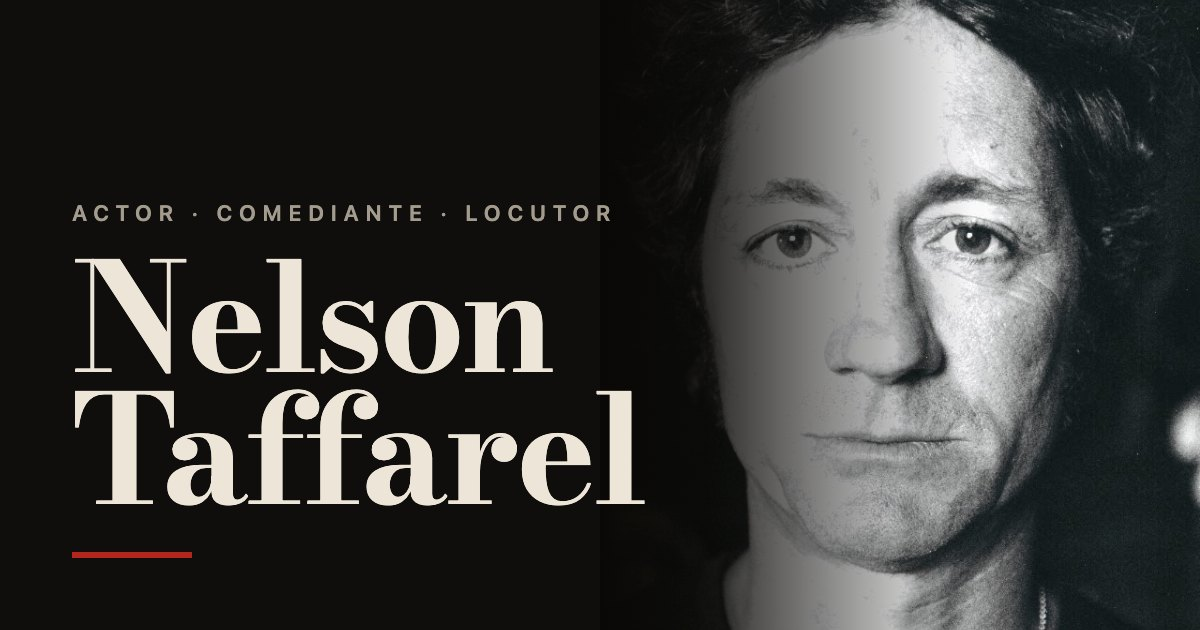
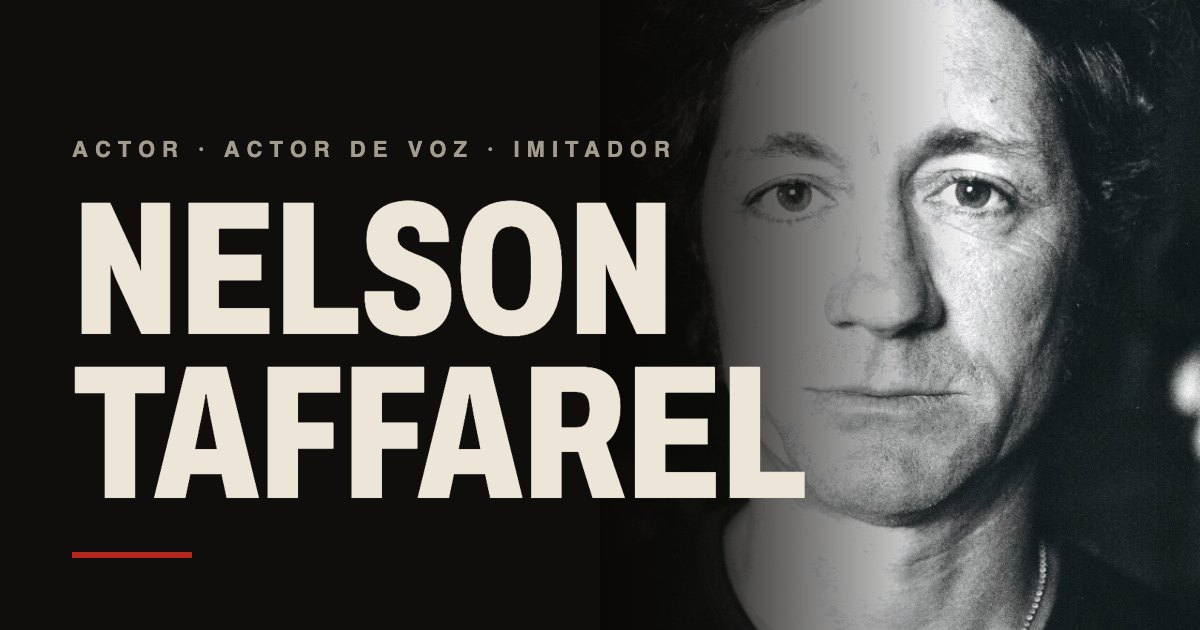
feat: nuevo contenido (Nelson / Nel Taffarel), sección Trayectoria y SEO con alias
Texto entregado y revisado por Nelson reemplaza la bio anterior. Bio con
apertura grande, Trayectoria en bloques con listas tipo créditos, Videos,
Galería y Contacto con sus textos. Title, JSON-LD y OG con ambos nombres.
OG y favicon regenerados con la tipografía nueva.

diff --git a/src/content/bio.ts b/src/content/bio.ts
@@ -1,24 +1,109 @@
-// Texto verbatim de la biografía. Los <span font-semibold> originales pasan a <strong>.
-export interface BioItem {
+// Texto entregado por Nelson (revisado por él). Los **negritas** originales pasan a <strong>.
+export const intro = [
+  '<strong>Nel Taffarel</strong>, nombre artístico de <strong>Nelson Taffarel</strong>, es actor, actor de voz e imitador argentino, oriundo de <strong>Gualeguaychú, Entre Ríos</strong>.',
+  'Su trayectoria abarca teatro, televisión, cine, cortometrajes, publicidad, locución e imitaciones, con experiencias en algunos de los principales escenarios y medios de la Argentina.',
+];
+
+export const about = {
+  title: 'Sobre mí',
+  paragraphs: [
+    'La actuación y la interpretación forman parte de mi vida desde hace muchos años.',
+    'Mi recorrido comenzó vinculado al teatro y a las imitaciones, y con el tiempo se extendió a la televisión, el cine, la publicidad y el trabajo como actor de voz.',
+    'A lo largo de mi trayectoria tuve la oportunidad de trabajar con reconocidos directores, participar en producciones televisivas y cinematográficas y formar parte de obras presentadas en escenarios como el <strong>Teatro San Martín</strong> y el <strong>Teatro Colón</strong>.',
+    'Cada experiencia fue aportando nuevas herramientas a mi trabajo como intérprete, tanto frente a cámara y sobre un escenario como detrás de un micrófono.',
+  ],
+};
+
+export type Part =
+  | { p: string }
+  | { list: string[] }
+  | { items: { title: string; html: string }[] };
+
+export interface Block {
+  id: string;
   title: string;
-  html: string;
+  subtitle?: string;
+  parts: Part[];
 }
 
-export const bio: BioItem[] = [
+export const career: Block[] = [
   {
-    title: 'Sobre mí',
-    html: 'Actor formado en el prestigioso taller de arte dramático de <strong>Agustín Alezzo</strong>, con una profunda pasión por la interpretación. Además, perfeccioné mis habilidades en danza y actuación con <strong>Ana Frenkel</strong>. Apasionado por el deporte, practico <strong>equitación</strong>, <strong>rugby</strong>, <strong>golf</strong> y <strong>Ashtanga Yoga</strong>, fusionando arte y disciplina en cada paso.',
-  },
-  {
-    title: 'Experiencia en TV',
-    html: 'He participado en reconocidas producciones televisivas como <em>Amor mío</em>, <em>Conflictos en red</em>, <em>Sin código</em>, <em>Hombres de honor</em>, <em>Los Roldán</em>, <em>Alma pirata</em>, <em>Casi ángeles</em> y <em>RRDT</em>. También incursioné en la comedia con programas icónicos como <em>Casados con hijos</em>, <em>TyC Sports</em> y <em>VideoMatch</em> (1995-1997).',
-  },
-  {
+    id: 'teatro',
     title: 'Teatro',
-    html: 'Sobre las tablas, he llevado a escena grandes clásicos en teatros como el <strong>San Martín</strong> y <strong>El Duende</strong>. Obras de <strong>Woody Allen</strong>, <strong>Harold Pinter</strong> y <strong>El Reñidero</strong> han sido parte de mi trayectoria, siempre bajo la dirección del maestro <strong>Agustín Alezzo</strong>.',
+    subtitle: 'Formación y trayectoria teatral',
+    parts: [
+      { p: 'El teatro constituye una parte fundamental de mi desarrollo como actor.' },
+      { p: 'Tuve la oportunidad de trabajar bajo la dirección de <strong>Agustín Alezzo</strong>, uno de los grandes maestros y directores del teatro argentino.' },
+      { p: 'Bajo su dirección participé en trabajos sobre textos de reconocidos dramaturgos internacionales, entre ellos:' },
+      { list: ['<strong>Central Park West</strong>, de Woody Allen.', '<strong>La colección</strong>, de Harold Pinter.'] },
+      { p: 'También participé en <strong>El reñidero</strong>, obra de Sergio De Cecco, en el ámbito del <strong>Teatro San Martín</strong>.' },
+      { p: 'Mi experiencia teatral incluye además participaciones en producciones realizadas en el <strong>Teatro Colón</strong>, entre ellas:' },
+      { list: ['<strong>Los cuentos de Hoffmann</strong>', '<strong>Atila</strong>'] },
+      { p: 'Estas experiencias fueron fundamentales para mi formación y para desarrollar distintos registros dentro de la actuación.' },
+    ],
   },
   {
-    title: 'Publicidad & Videoclips',
-    html: 'He sido parte de campañas publicitarias para marcas líderes como <strong>La Serenísima</strong>, <strong>Arcor</strong>, <strong>Gancia</strong>, <strong>AFIP</strong>, <strong>Plusbelle</strong>, <strong>Ford</strong> y <strong>Pago Fácil</strong>. Además, participé en videoclips de artistas como <strong>Los Nocheros</strong>, <strong>Pimpinela</strong> y <strong>León Gieco</strong>, fusionando la actuación con la música.',
+    id: 'cine',
+    title: 'Cine',
+    parts: [
+      { p: 'Mi trayectoria también incluye participaciones en largometrajes y cortometrajes.' },
+      {
+        items: [
+          { title: 'No te olvides de mí', html: 'Participé como actor en <strong>No te olvides de mí</strong>, película dirigida por <strong>Fernanda Remondo</strong> y protagonizada por <strong>Leonardo Sbaraglia</strong>.' },
+          { title: 'Road Movie', html: 'Participé en <strong>Road Movie</strong>, dirigida por <strong>Dennis Smith</strong>.' },
+          { title: 'Como Susi', html: 'Formé parte del cortometraje <strong>Como Susi</strong>, producción que participó en distintos festivales.' },
+          { title: 'Cortometrajes para Telefe', html: 'También participé como actor en diferentes <strong>cortometrajes realizados para Telefe</strong>, ampliando mi experiencia en distintos formatos audiovisuales.' },
+        ],
+      },
+    ],
+  },
+  {
+    id: 'television',
+    title: 'Televisión',
+    parts: [
+      { p: 'A lo largo de mi carrera participé en diferentes producciones y programas de televisión.' },
+      { p: 'Entre mis trabajos y experiencias se encuentran:' },
+      { list: ['<strong>Videomatch</strong>', 'Trabajos en <strong>Canal 9</strong>', '<strong>Casados con Hijos</strong>', '<strong>Los Únicos</strong>', 'Diferentes participaciones televisivas y audiovisuales'] },
+      { p: 'La televisión me permitió desarrollar distintos registros actorales y complementar la experiencia adquirida previamente en teatro.' },
+    ],
+  },
+  {
+    id: 'artigas',
+    title: 'Artigas',
+    subtitle: 'José Rondeau',
+    parts: [
+      { p: 'Participé en la producción <strong>Artigas</strong>, interpretando al personaje histórico <strong>José Rondeau</strong>.' },
+      { p: 'Este trabajo significó la posibilidad de abordar un personaje histórico y desarrollar una interpretación vinculada a un contexto y una época determinados.' },
+    ],
+  },
+  {
+    id: 'voz',
+    title: 'Actor de voz y publicidad',
+    parts: [
+      { p: 'Además de mi trabajo como actor frente a cámara y sobre el escenario, desarrollé una trayectoria como <strong>actor de voz y locutor publicitario</strong>.' },
+      { p: 'Participé con mi voz en diferentes piezas y campañas para marcas y empresas como:' },
+      { list: ['<strong>Ford</strong>', '<strong>Amarok</strong>', '<strong>Stella Artois</strong>', '<strong>YPF</strong>', '<strong>Vinos Los Intocables</strong>', '<strong>Pago Fácil</strong>'] },
+      { p: 'El trabajo de voz me permitió explorar otros registros interpretativos, combinando actuación, locución, creación de personajes y comunicación publicitaria.' },
+    ],
+  },
+  {
+    id: 'imitaciones',
+    title: 'Imitaciones',
+    parts: [
+      { p: 'Las imitaciones forman parte de mis comienzos y siguen siendo una de las facetas más personales de mi trabajo artístico.' },
+      { p: 'Desde joven desarrollé la observación de voces, gestos y personalidades, transformándolas en personajes y contenidos humorísticos.' },
+      { p: 'Con el tiempo, esta capacidad también se integró a mi trabajo profesional en televisión, actuación y voz.' },
+      { p: 'Actualmente continúo desarrollando imitaciones y contenidos vinculados al humor y la interpretación.' },
+    ],
+  },
+  {
+    id: 'ecuestre',
+    title: 'Trayectoria ecuestre',
+    parts: [
+      { p: 'Además de mi actividad artística, desarrollé durante años una relación muy cercana con el mundo de los caballos.' },
+      { p: 'Tuve experiencia en el <strong>cuidado y manejo de caballos</strong>, adquiriendo conocimientos vinculados a la actividad ecuestre.' },
+      { p: 'También desarrollé actividad deportiva como <strong>jugador de polo</strong>.' },
+      { p: 'Esta experiencia forma parte de mi recorrido personal y constituye otra faceta de una vida vinculada a diferentes disciplinas, tanto artísticas como deportivas.' },
+    ],
   },
 ];

diff --git a/src/content/site.ts b/src/content/site.ts
@@ -2,12 +2,15 @@ export const SITE_URL = (import.meta.env.SITE_URL ?? 'https://nelsontaffarel.net
 
 export const site = {
   name: 'Nelson Taffarel',
-  roles: ['Actor', 'Comediante', 'Locutor'],
-  rolesLine: 'Actor • Comediante • Locutor',
+  roles: ['Actor', 'Actor de voz', 'Imitador'],
+  alternateName: 'Nel Taffarel',
+  rolesLine: 'Actor · Actor de voz · Imitador',
+  location: 'Gualeguaychú, Entre Ríos',
   cta: 'Conóceme',
-  // TODO-CONTENIDO: validar con Nelson (≈150 caracteres)
   description:
-    'Sitio oficial de Nelson Taffarel, actor argentino formado con Agustín Alezzo. TV (Casi Ángeles, Los Roldán), teatro, publicidad y reels.',
+    'Sitio oficial de Nelson Taffarel (Nel Taffarel), actor argentino de Gualeguaychú. Trayectoria en teatro, televisión, cine, publicidad, locución e imitaciones.',
+  shortBio:
+    'Nel Taffarel, nombre artístico de Nelson Taffarel, es un actor, actor de voz e imitador argentino de Gualeguaychú, Entre Ríos. Su trayectoria abarca teatro, televisión, cine, publicidad y locución. Trabajó bajo la dirección de Agustín Alezzo, participó en producciones del Teatro San Martín y el Teatro Colón y desarrolló trabajos en televisión, cine y campañas publicitarias.',
   links: {
     instagram: 'https://www.instagram.com/neltaffarel/',
     vimeo: 'https://vimeo.com/nelsontaffarel',
@@ -20,14 +23,24 @@ export const site = {
   nav: [
     { title: 'Inicio', href: '#home' },
     { title: 'Biografía', href: '#biografia' },
-    { title: 'Reels', href: '#reels' },
+    { title: 'Trayectoria', href: '#trayectoria' },
+    { title: 'Videos', href: '#videos' },
     { title: 'Galería', href: '#galeria' },
     { title: 'Contacto', href: '#contacto' },
   ],
   sections: {
     bio: 'Biografía',
+    career: 'Trayectoria',
+    reels: 'Videos',
     gallery: 'Galería',
-    reels: 'Reels',
     contact: 'Contacto',
   },
+  videosText:
+    'Una selección de trabajos, imitaciones, participaciones televisivas, material audiovisual y distintos momentos de la trayectoria artística de <strong>Nel Taffarel</strong>.',
+  galleryText:
+    'Imágenes de trabajos actorales, teatro, televisión, cine, publicidad y diferentes momentos de la trayectoria de Nel Taffarel.',
+  contactText:
+    'Para propuestas de actuación, teatro, televisión, cine, publicidad, locuciones, castings, eventos y proyectos audiovisuales:',
+  footerText:
+    'Sitio oficial de Nel Taffarel — Nelson Taffarel. Actor, actor de voz e imitador argentino. Gualeguaychú, Entre Ríos.',
 } as const;

diff --git a/PRODUCT.md b/PRODUCT.md
@@ -12,7 +12,7 @@ Astro estático (decidido por el usuario en PLAN-REWORK-SEO.md §2), CSS propio 
 
 ## Users
 
-Portfolio personal de Nelson Taffarel, actor argentino. Audiencia confirmada por el usuario: directores de casting, productoras, agencias de representación y público general. Llegan desde Google (búsqueda por nombre), Instagram o un link compartido por WhatsApp, casi siempre en el celular, para confirmar quién es, ver su trabajo (reels, fotos) y saber cómo contactarlo.
+Portfolio personal de Nelson Taffarel (nombre artístico Nel Taffarel), actor, actor de voz e imitador argentino de Gualeguaychú. Audiencia confirmada por el usuario: directores de casting, productoras, agencias de representación y público general. Llegan desde Google (búsqueda por nombre), Instagram o un link compartido por WhatsApp, casi siempre en el celular, para confirmar quién es, ver su trabajo (reels, fotos) y saber cómo contactarlo.
 
 ## Product Purpose
 
@@ -28,7 +28,8 @@ Una sola página con anclas: Inicio, Biografía, Galería, Reels, Contacto. Los 
 
 ## Capabilities and Constraints
 
-- El contenido (bio, títulos, links, crédito "Hecho por IGNACIO HAFFNER") no se modifica; se copia verbatim.
+- El texto vigente es el entregado y revisado por Nelson (reemplazó la bio original). Se copia verbatim en `src/content/bio.ts`; el crédito "Hecho por IGNACIO HAFFNER" se mantiene.
+- El sitio debe encontrarse por "Nelson Taffarel" y por "Nel Taffarel" (h1 = Nelson; alias en title, JSON-LD y bio).
 - Los 4 bloques de la biografía siempre visibles en el HTML (sin carrusel). Un solo `<h1>`.
 - Sin toggle de tema: un único tema oscuro.
 - Presupuesto: Lighthouse mobile ~100 en las 4 categorías, JS de cliente < 10 KB, primera carga < 500 KB.
